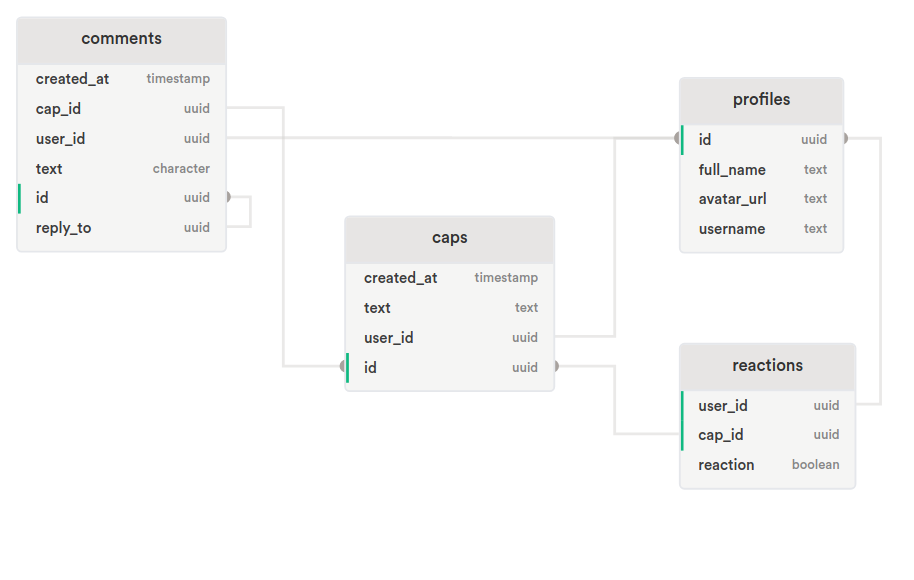
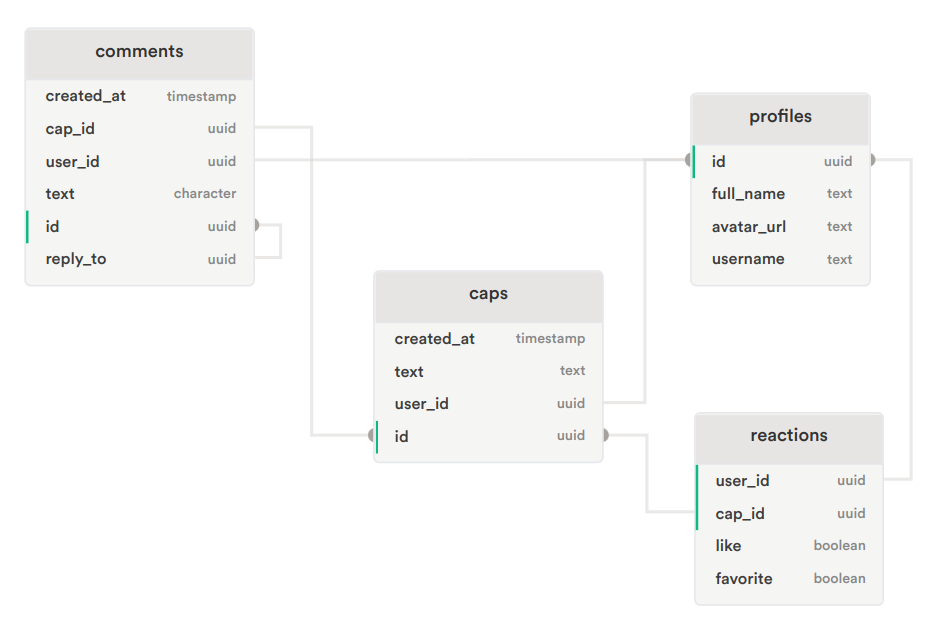
Updated db schema on readme

diff --git a/README.md b/README.md
@@ -75,11 +75,12 @@ create table comments (
 create table reactions (
   user_id uuid references profiles (id) primary key on delete cascade,
   cap_id uuid references caps (id) primary key on delete cascade,
-  reaction boolean not null
+  reaction boolean
+  favorite boolean
 );
 ```
 
-Resulting database schema:
+Resulting database schema: (Generated w/ [supabase-schema](https://github.com/zernonia/supabase-schema) )
 
 ![Database schema](./doc/db-schema.png)
 
@@ -95,7 +96,7 @@ To run this project, you will need to add the following environment variables to
 
 `VITE_APP_SUPABASE_URL='your-supabase-url'`
 
-`VITE_APP_SUPABASE_ANON_KEY='your-anon-key`
+`VITE_APP_SUPABASE_ANON_KEY='your-anon-key'`
 
 Both can be found in https://app.supabase.com/project/^your-proyect^/settings/api
 
